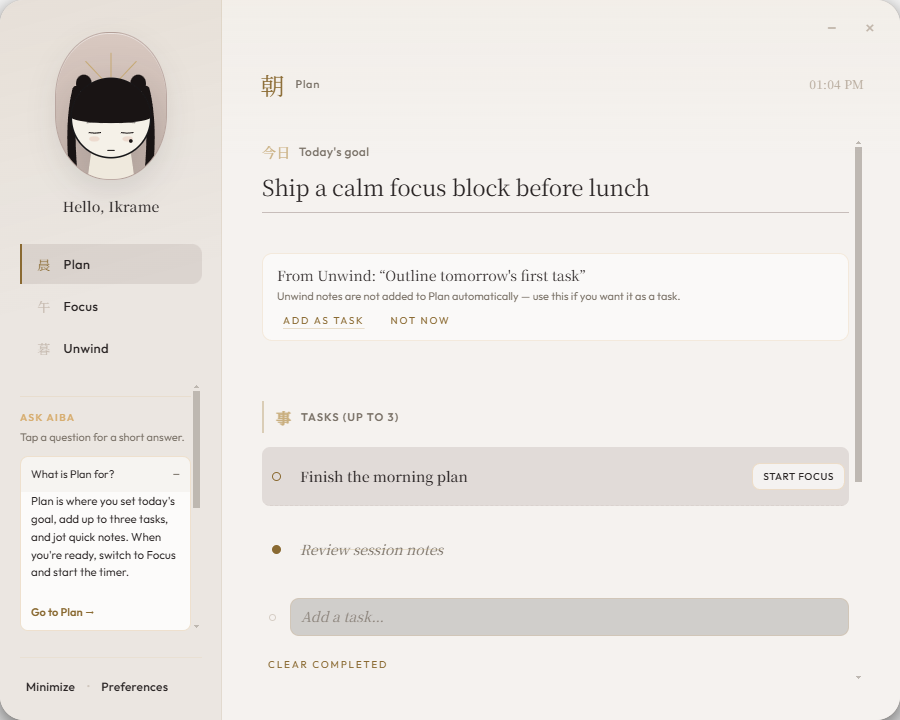
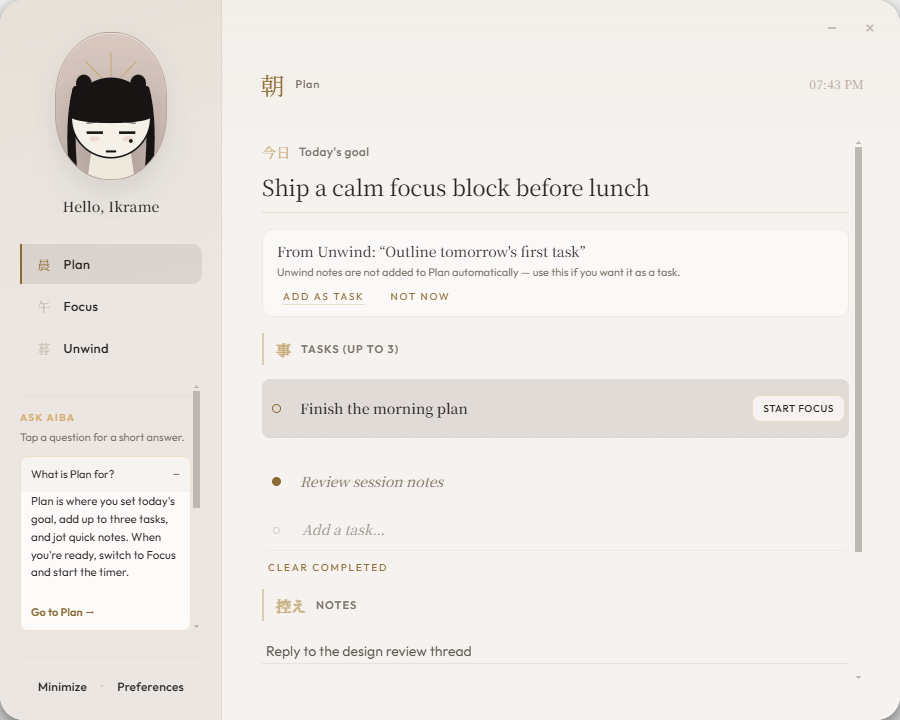
Fix Plan scroll/spacing, remove eye shine, and tighten Sessions stats grid.
Make the flow insights a true 2x2 so no empty cell remains, clear sticky transforms that blurred small labels, and refresh README screenshots.

diff --git a/src/windows/main/styles/app.css b/src/windows/main/styles/app.css
@@ -181,12 +181,11 @@ a,
   -webkit-app-region: no-drag;
 }
 
-/* Default: empty chrome is draggable; interactive nodes above stay no-drag */
+/* Default: chrome is draggable; scrollable Plan content must stay no-drag */
 .studio-layout,
 .studio-shell,
 .studio-main,
 .studio-main__body,
-.studio-main__content,
 .studio-main__header,
 .studio-main__titlebar,
 .compact-focus,
@@ -194,6 +193,10 @@ a,
 .compact-focus__stage,
 .compact-focus__footer {
   -webkit-app-region: drag;
+}
+
+.studio-main__content {
+  -webkit-app-region: no-drag;
 }
 
 .widget-time {
@@ -871,7 +874,7 @@ select {
 
 .flow-grid {
   display: grid;
-  grid-template-columns: repeat(3, 1fr);
+  grid-template-columns: repeat(2, minmax(0, 1fr));
   gap: 1px;
   margin-top: 16px;
   border: 1px solid var(--phase-border);
@@ -886,7 +889,8 @@ select {
   align-items: center;
   justify-content: center;
   gap: 4px;
-  padding: 16px 10px;
+  min-height: 88px;
+  padding: 16px 12px;
   background: var(--phase-surface-strong);
   text-align: center;
 }
@@ -895,17 +899,20 @@ select {
   display: block;
   font-size: 22px;
   font-weight: 600;
-  line-height: 1;
+  line-height: 1.15;
   letter-spacing: -0.02em;
   color: var(--phase-accent);
 }
 
 .flow-card span {
-  font-size: 9px;
+  font-size: 10px;
   font-weight: 600;
   text-transform: uppercase;
-  letter-spacing: 0.08em;
+  letter-spacing: 0.06em;
   color: var(--warm-gray);
+  line-height: 1.35;
+  -webkit-font-smoothing: antialiased;
+  text-rendering: geometricPrecision;
 }
 
 .deep-tools {
@@ -1555,7 +1562,7 @@ select:disabled {
 }
 
 .studio-main__content {
-  -webkit-app-region: drag;
+  -webkit-app-region: no-drag;
 }
 
 .ask-aiba {
@@ -1757,11 +1764,6 @@ select:disabled {
   stroke: none;
 }
 
-.aiba-eye-shine {
-  fill: #191414;
-  opacity: 0.75;
-}
-
 .aiba-bust:not(.is-reduced):not(.aiba-behavior--sleep) .aiba-ponytail {
   transform-box: fill-box;
 }
@@ -1785,23 +1787,31 @@ select:disabled {
   animation: aibaGlance 2.2s ease-in-out;
 }
 
-.aiba-bust:not(.is-reduced):not(.aiba-behavior--sleep) .aiba-eye {
+.aiba-bust:not(.is-reduced):not(.aiba-behavior--sleep):not(.aiba-figure--drowsy) .aiba-eye {
   transform-box: fill-box;
-  transform-origin: center;
-  animation: aibaBlink 4.8s ease-in-out infinite;
+  transform-origin: 50% 70%;
+  animation: aibaBlink 6.4s linear infinite;
 }
 
-.aiba-bust:not(.is-reduced):not(.aiba-behavior--sleep) .aiba-eye--right {
-  animation-delay: 0.06s;
+.aiba-bust:not(.is-reduced):not(.aiba-behavior--sleep):not(.aiba-figure--drowsy) .aiba-eye--right {
+  animation-delay: 0.028s;
+}
+
+.aiba-bust:not(.is-reduced):not(.aiba-behavior--sleep):not(.aiba-figure--drowsy) .aiba-brow {
+  transform-box: fill-box;
+  transform-origin: center bottom;
+  animation: aibaBrowBlink 6.4s linear infinite;
+}
+
+.aiba-bust:not(.is-reduced):not(.aiba-behavior--sleep):not(.aiba-figure--drowsy) .aiba-brow--right {
+  animation-delay: 0.028s;
 }
 
 .aiba-bust.aiba-behavior--sleep .aiba-eye,
-.aiba-bust.aiba-figure--drowsy .aiba-eye {
+.aiba-bust.aiba-figure--drowsy .aiba-eye,
+.aiba-bust.aiba-behavior--sleep .aiba-brow,
+.aiba-bust.aiba-figure--drowsy .aiba-brow {
   animation: none;
-}
-
-.aiba-bust.aiba-behavior--sleep .aiba-eye-shine {
-  display: none;
 }
 
 @keyframes aibaPonytailSwayLeft {
@@ -2385,12 +2395,21 @@ select:disabled {
   padding: 2px 4px 8px;
   overflow-x: hidden;
   overflow-y: auto;
+  overscroll-behavior: contain;
+  -webkit-app-region: no-drag;
 }
 
 .today-studio {
   display: flex;
   flex-direction: column;
-  gap: 40px;
+  gap: 14px;
+}
+
+/* Keep goal → From Unwind → Tasks as one tight stack */
+.today-studio > .core-intent + .plan-tomorrow-prompt,
+.today-studio > .core-intent + .studio-margin-section,
+.today-studio > .plan-tomorrow-prompt + .studio-margin-section {
+  margin-top: 2px;
 }
 
 .core-intent--v2 {
@@ -2567,11 +2586,14 @@ select:disabled {
 
 .studio-margin-section__label {
   margin: 0;
-  font-size: 10.5px;
-  font-weight: 500;
-  letter-spacing: 0.22em;
+  font-size: 11px;
+  font-weight: 600;
+  letter-spacing: 0.1em;
   text-transform: uppercase;
   color: var(--studio-text-muted);
+  /* Integer size + tighter tracking reads sharper than 10.5px / 0.22em on Windows */
+  -webkit-font-smoothing: antialiased;
+  text-rendering: geometricPrecision;
 }
 
 .studio-link--underline {

diff --git a/src/windows/main/components/AibaBust.tsx b/src/windows/main/components/AibaBust.tsx
@@ -73,7 +73,6 @@ export function AibaBust({
   const mouth = MOUTH_PATHS[mood];
   const brows = BROW_PATHS[mood];
   const isStudio = variant === "studio";
-  const showShine = mood === "bright";
 
   return (
     <svg
@@ -133,12 +132,6 @@ export function AibaBust({
             <g className="aiba-eyes">
               <path d={eyes.left} className="aiba-eye aiba-eye--left" />
               <path d={eyes.right} className="aiba-eye aiba-eye--right" />
-              {showShine ? (
-                <>
-                  <circle cx="92" cy="156" r="2.2" className="aiba-eye-shine" />
-                  <circle cx="154" cy="156" r="2.2" className="aiba-eye-shine" />
-                </>
-              ) : null}
             </g>
 
             {mouth.lips && mood === "bright" ? (

diff --git a/src/windows/main/styles/tokens.css b/src/windows/main/styles/tokens.css
@@ -274,13 +274,49 @@ button {
 }
 
 @keyframes aibaBlink {
+  /* Long calm open, then a fast close / open (and a soft double blink) */
   0%,
-  90%,
+  82%,
   100% {
     transform: scaleY(1);
   }
-  95% {
-    transform: scaleY(0.08);
+  84% {
+    transform: scaleY(0.18);
+  }
+  85.2% {
+    transform: scaleY(0.04);
+  }
+  87% {
+    transform: scaleY(1);
+  }
+  92% {
+    transform: scaleY(1);
+  }
+  93.2% {
+    transform: scaleY(0.2);
+  }
+  94.2% {
+    transform: scaleY(0.06);
+  }
+  96% {
+    transform: scaleY(1);
+  }
+}
+
+@keyframes aibaBrowBlink {
+  0%,
+  82%,
+  87%,
+  92%,
+  96%,
+  100% {
+    transform: translateY(0);
+  }
+  84%,
+  85.2%,
+  93.2%,
+  94.2% {
+    transform: translateY(1.2px);
   }
 }
 

diff --git a/src/windows/main/styles/fluidity.css b/src/windows/main/styles/fluidity.css
@@ -19,21 +19,18 @@
 }
 
 .studio-view-transition {
-  animation: studioSpringIn var(--duration-spring) var(--ease-spring) both;
+  /* No fill-mode forwards/both — leaving transform applied blurs small caps labels */
+  animation: studioSpringIn var(--duration-spring) var(--ease-spring);
 }
 
 @keyframes studioSpringIn {
   0% {
     opacity: 0;
-    transform: translateY(10px) scale(0.985);
-  }
-  65% {
-    opacity: 1;
-    transform: translateY(-2px) scale(1.002);
+    transform: translateY(8px);
   }
   100% {
     opacity: 1;
-    transform: translateY(0) scale(1);
+    transform: translateY(0);
   }
 }
 

diff --git a/src/windows/main/styles/transitions.css b/src/windows/main/styles/transitions.css
@@ -33,10 +33,6 @@
     transform 0.28s var(--ease-out, ease);
 }
 
-.studio-view-transition__inner {
-  will-change: opacity, transform;
-}
-
 /* studioSpringIn defined in fluidity.css */
 
 .studio-overlay {
@@ -390,7 +386,7 @@
 }
 
 .plan-tomorrow-prompt {
-  margin: 0 0 20px;
+  margin: 0;
   padding: 12px 14px;
   border-radius: 10px;
   border: 1px solid rgba(212, 163, 92, 0.18);
